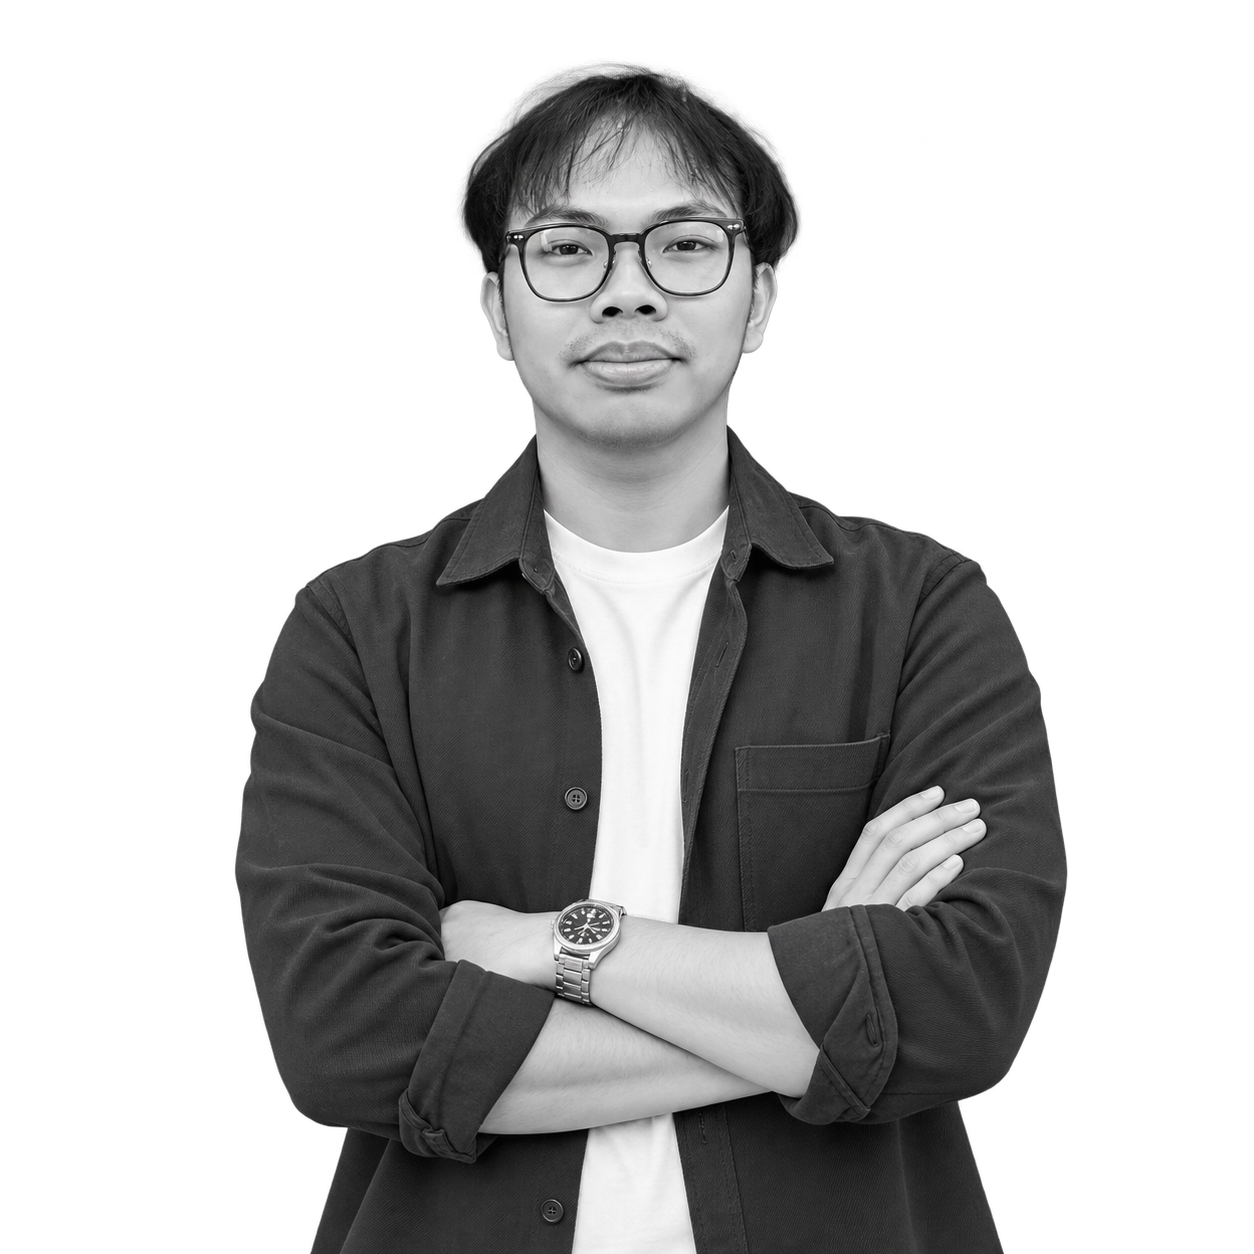
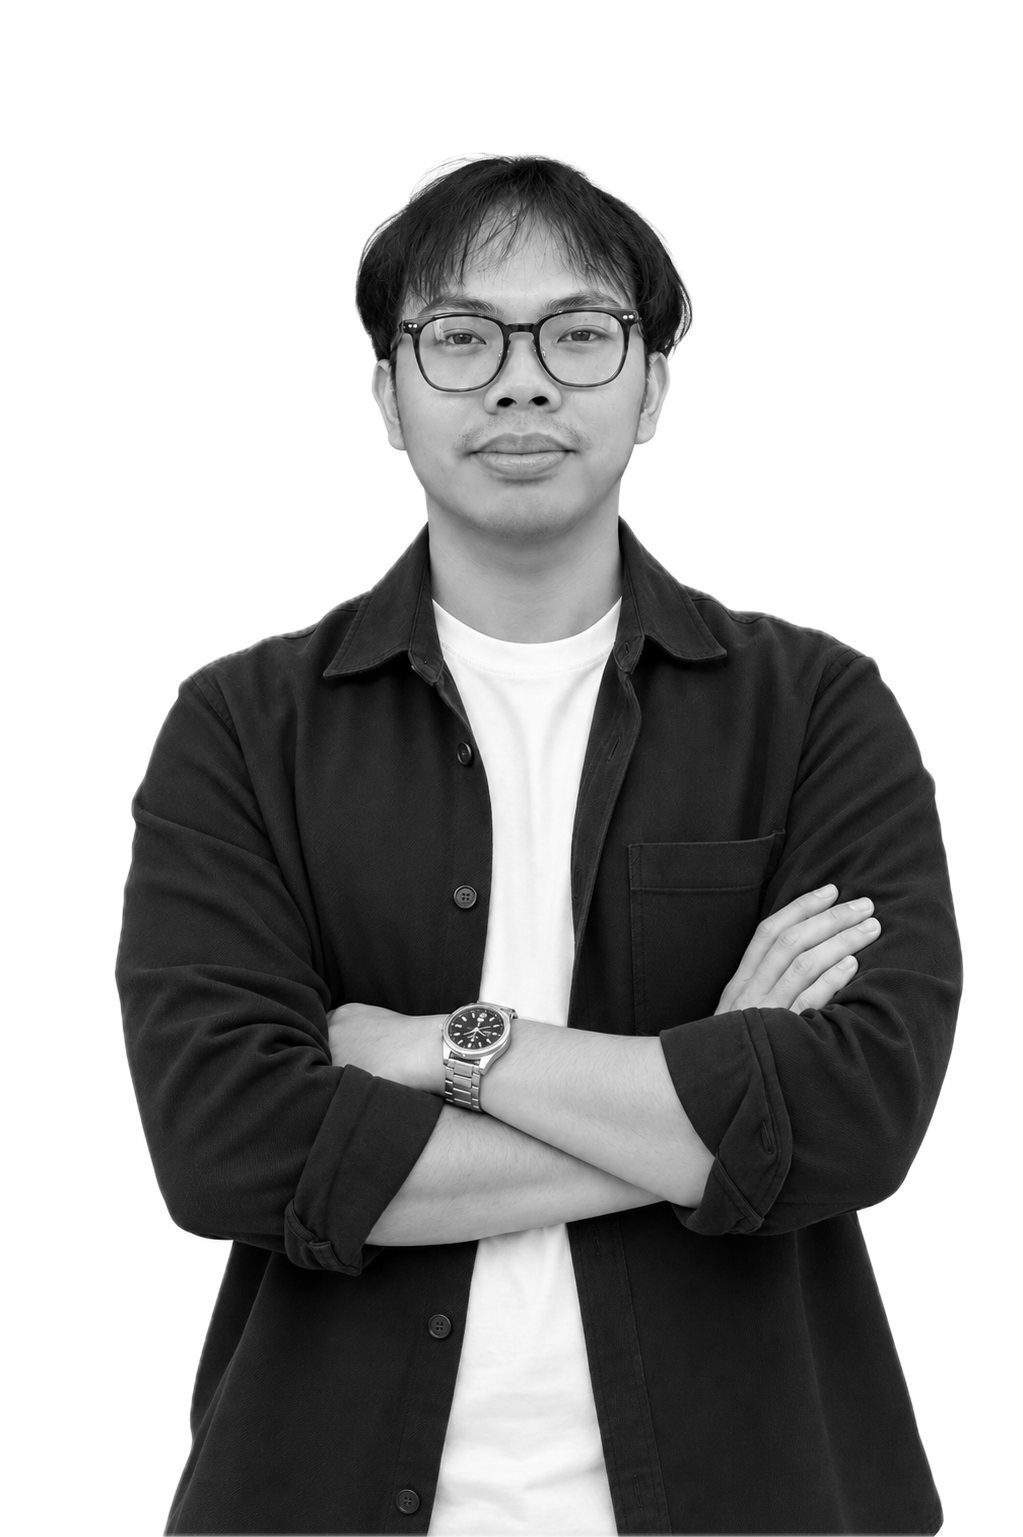
feat: baseline v1 — brand Cahaya Arkana, section Experience & Statement, thumbnail project, potret baru

diff --git a/components/Experience.tsx b/components/Experience.tsx
@@ -1,0 +1,75 @@
+import { site } from "@/data/site";
+
+const history = [
+  {
+    role: "Software Engineer / Full-Stack Developer",
+    org: "Freelance & Client Projects",
+    period: "2021 — Present",
+  },
+  {
+    role: "Web Developer (Laravel / React)",
+    org: "Enterprise POS & CMS Solutions",
+    period: "2020 — 2021",
+  },
+  {
+    role: "Frontend Developer",
+    org: "Digital Product Projects",
+    period: "2018 — 2020",
+  },
+];
+
+export default function Experience() {
+  return (
+    <section id="experience" className="py-16 sm:py-24 max-w-7xl mx-auto px-4 sm:px-6 lg:px-8">
+      <div className="grid grid-cols-1 md:grid-cols-12 gap-8 items-start">
+        <div className="md:col-span-5 space-y-4">
+          <span className="text-xs font-bold text-lime-600 uppercase tracking-widest">Background</span>
+          <h2 className="text-3xl sm:text-4xl font-bold text-neutral-900">
+            Building production software{" "}
+            <span className="font-editorial italic font-normal text-neutral-500">since 2018</span>
+          </h2>
+          <p className="text-xs sm:text-sm text-neutral-600 leading-relaxed pt-2">
+            Arya Ajisadda is a full-stack software engineer focused on robust web applications,
+            CMS platforms, and POS systems — from backend architecture to accessible, pixel-perfect
+            frontends.
+          </p>
+
+          <div className="pt-4 flex items-center gap-3 text-xs font-semibold text-neutral-700">
+            <a
+              href={site.github && `https://github.com/${site.github}`}
+              target="_blank"
+              rel="noopener noreferrer"
+              className={site.github ? "hover:text-lime-600 transition-colors" : "pointer-events-none text-neutral-400"}
+            >
+              GitHub ↗
+            </a>
+            <span className="text-neutral-300">•</span>
+            <a
+              href={site.linkedin && `https://linkedin.com/in/${site.linkedin}`}
+              target="_blank"
+              rel="noopener noreferrer"
+              className={site.linkedin ? "hover:text-lime-600 transition-colors" : "pointer-events-none text-neutral-400"}
+            >
+              LinkedIn ↗
+            </a>
+          </div>
+        </div>
+
+        <div className="md:col-span-7 bg-white p-6 sm:p-8 rounded-3xl border border-[#E5E7EB] space-y-6">
+          {history.map((h, i) => (
+            <div
+              key={h.role}
+              className={`flex items-center justify-between ${i < history.length - 1 ? "border-b border-[#E5E7EB] pb-4" : ""}`}
+            >
+              <div>
+                <h4 className="font-bold text-neutral-900 text-sm sm:text-base">{h.role}</h4>
+                <p className="text-xs text-neutral-500">{h.org}</p>
+              </div>
+              <span className="text-xs font-bold text-neutral-500 font-mono">{h.period}</span>
+            </div>
+          ))}
+        </div>
+      </div>
+    </section>
+  );
+}

diff --git a/data/projects.ts b/data/projects.ts
@@ -21,40 +21,44 @@ export const projects: Project[] = [
       "Point-of-sale offline-first untuk outlet: stok & transaksi jalan tanpa koneksi stabil, integrasi printer kasir & dapur, UI tablet-first untuk kasir cepat.",
     stack: ["React 19", "Vite", "Tailwind v4", "Capacitor", "Laravel 13", "SQLite"],
     highlight: "Offline-first POS + Android",
+    thumb: "/projects/mieayam.webp",
   },
   {
     id: "cms-dombi",
-    title: "Dombi Commerce Platform",
+    title: "Dombi",
     category: "cms",
     year: "2026",
     description:
-      "Platform commerce operational untuk distribusi produk segar harian: pesanan, pengiriman, kurir, dan manajemen pelanggan. Integrasi pembayaran DOKU (QRIS/Transfer/VA), Google OAuth, dan monitoring Sentry.",
-    stack: ["Laravel 13", "React 19", "Inertia", "DOKU", "Leaflet", "Sentry"],
-    highlight: "E-commerce + delivery + payment",
+      "Platform commerce operational untuk distribusi produk segar harian: pesanan, pengiriman, kurir, dan manajemen pelanggan. Integrasi pembayaran DOKU (QRIS/Transfer/VA), Google OAuth, monitoring Sentry, plus aplikasi mobile Android (Capacitor) untuk katalog & pesanan di perangkat.",
+    stack: ["Laravel 13", "React 19", "Inertia", "DOKU", "Capacitor", "Sentry"],
+    highlight: "E-commerce + delivery + payment + Android",
+    thumb: "/projects/dombi.webp",
   },
   {
-    id: "dombi-app",
-    title: "Dombi Mobile App",
-    category: "mobile",
-    year: "2026",
+    id: "cms-sidorejo",
+    title: "Sidorejo Makmur Sejahtera CMS",
+    category: "cms",
+    year: "2025",
     description:
-      "Aplikasi mobile Android (Capacitor) untuk platform commerce Dombi — akses katalog, pesanan, dan notifikasi langsung di perangkat.",
-    stack: ["Capacitor", "Android", "Laravel API"],
-    highlight: "Android app + Laravel API",
+      "Company profile & news site untuk PT Sidorejo Makmur Sejahtera: landing page (visi misi, partner, SPBU, karir), berita/artikel, dan contact form — semua konten dikelola lewat admin Filament.",
+    stack: ["Laravel 11", "Filament 3", "Tailwind", "Vite"],
+    highlight: "Company profile + berita + admin Filament",
+    thumb: "/projects/comprosms.webp",
   },
   {
     id: "presensi-sims",
-    title: "Presensi SIMS",
+    title: "Presensi SMS",
     category: "web",
     year: "2025",
     description:
       "Sistem presensi karyawan berbasis web dengan konfigurasi shift kerja, dashboard, dan PWA — Laravel 11 + Inertia React + MUI + AmCharts.",
     stack: ["Laravel 11", "Inertia React", "MUI", "AmCharts", "PWA"],
     highlight: "Presensi + shift kerja + PWA",
+    thumb: "/projects/presensi.webp",
   },
   {
     id: "graha-mesran",
-    title: "Graha Mesran POS",
+    title: "Graha Motor POS",
     category: "web",
     year: "2025",
     description:

diff --git a/components/Process.tsx b/components/Process.tsx
@@ -57,6 +57,51 @@ export default function Process() {
           </div>
         ))}
       </div>
+
+      {/* Testimonials */}
+      <div className="mt-20 pt-12 max-w-5xl mx-auto">
+        <div className="grid grid-cols-1 md:grid-cols-2 gap-10 md:gap-16 items-start md:divide-x md:divide-[#E5E7EB]/80">
+          <div className="pr-0 md:pr-8 space-y-6">
+            <div className="flex items-start justify-between">
+              <p className="text-xs sm:text-sm text-neutral-700 leading-relaxed font-normal">
+                Working with Arya was seamless from start to finish. He understood our goals quickly,
+                asked the right questions, and delivered a system that scaled cleanly with our growing
+                web app.
+              </p>
+              <span className="text-2xl font-serif text-neutral-900 shrink-0 ml-4">”</span>
+            </div>
+            <div className="flex items-center gap-3 pt-2">
+              <div className="w-10 h-10 rounded-full bg-lime flex items-center justify-center text-xs font-bold text-neutral-900">
+                DR
+              </div>
+              <div>
+                <div className="text-xs font-bold text-neutral-900">Daniel Reed</div>
+                <div className="text-[11px] text-neutral-500">Founder of NovaLabs</div>
+              </div>
+            </div>
+          </div>
+
+          <div className="pl-0 md:pl-12 space-y-6">
+            <div className="flex items-start justify-between">
+              <p className="text-xs sm:text-sm text-neutral-700 leading-relaxed font-normal">
+                Arya brought our product vision to life with incredible attention to detail. He
+                balanced business needs with solid engineering — our platform is not just beautiful,
+                but genuinely reliable.
+              </p>
+              <span className="text-2xl font-serif text-neutral-900 shrink-0 ml-4">”</span>
+            </div>
+            <div className="flex items-center gap-3 pt-2">
+              <div className="w-10 h-10 rounded-full bg-[#18181B] text-white flex items-center justify-center text-xs font-bold">
+                SN
+              </div>
+              <div>
+                <div className="text-xs font-bold text-neutral-900">Sarah Nguyen</div>
+                <div className="text-[11px] text-neutral-500">Product Manager at FlowSync</div>
+              </div>
+            </div>
+          </div>
+        </div>
+      </div>
     </section>
   );
 }

diff --git a/components/Footer.tsx b/components/Footer.tsx
@@ -8,28 +8,34 @@ export default function Footer() {
   ].filter((s) => s.url);
 
   return (
-    <footer className="bg-white border-t border-[#E5E7EB] py-12">
-      <div className="max-w-7xl mx-auto px-4 sm:px-6 lg:px-8 flex flex-col sm:flex-row items-center justify-between gap-6">
-        <div className="flex items-center gap-2">
-          <span className="font-editorial italic text-xl">Arya</span>
-          <span className="text-sm font-bold">Ajisadda</span>
-          <span className="text-xs text-neutral-400 ml-2">© 2026. All rights reserved.</span>
-        </div>
-        {socials.length > 0 && (
-          <div className="flex items-center gap-6 text-neutral-600 text-sm">
-            {socials.map((s) => (
-              <a
-                key={s.name}
-                href={s.url}
-                target="_blank"
-                rel="noopener noreferrer"
-                className="hover:text-black transition-colors flex items-center gap-1.5"
-              >
-                {s.icon} {s.name}
-              </a>
-            ))}
+    <footer className="pt-12 pb-8 border-t border-[#E5E7EB] overflow-hidden bg-white">
+      <div className="max-w-7xl mx-auto px-4 sm:px-6 lg:px-8">
+        <div className="flex flex-col sm:flex-row items-center justify-between gap-4 pb-12 text-xs text-neutral-500 font-medium">
+          <div>
+            © {new Date().getFullYear()} {site.brand}. All rights reserved.
           </div>
-        )}
+          {socials.length > 0 && (
+            <div className="flex items-center gap-6">
+              {socials.map((s) => (
+                <a
+                  key={s.name}
+                  href={s.url}
+                  target="_blank"
+                  rel="noopener noreferrer"
+                  className="hover:text-neutral-900 transition-colors flex items-center gap-1.5"
+                >
+                  {s.icon} {s.name}
+                </a>
+              ))}
+            </div>
+          )}
+        </div>
+
+        <div className="text-center select-none pt-4 pointer-events-none">
+          <span className="block text-[12vw] sm:text-[11vw] font-editorial italic text-neutral-100 leading-none tracking-tighter">
+            {site.brand}
+          </span>
+        </div>
       </div>
     </footer>
   );

diff --git a/components/Nav.tsx b/components/Nav.tsx
@@ -2,21 +2,28 @@
 
 import { useState } from "react";
 import { FaBars, FaXmark, FaArrowRight } from "react-icons/fa6";
+import { site } from "@/data/site";
 
 export default function Nav({ onOpenContact }: { onOpenContact: () => void }) {
   const [open, setOpen] = useState(false);
   const links = [
     { href: "#about", label: "About Me" },
     { href: "#process", label: "How I Work" },
+    { href: "#experience", label: "Experience" },
     { href: "#works", label: "Selected Works" },
   ];
 
   return (
     <header className="sticky top-0 z-40 backdrop-blur-md bg-[#FAF9F6]/80 border-b border-[#E5E7EB]/60">
       <div className="max-w-7xl mx-auto px-4 sm:px-6 lg:px-8 h-20 flex items-center justify-between">
-        <a href="#" className="flex items-center gap-2">
-          <span className="font-editorial italic text-2xl text-neutral-900">Arya</span>
-          <span className="text-xl font-bold tracking-tight text-neutral-900">Ajisadda</span>
+        <a href="#" className="flex items-center gap-2.5 group">
+          <div className="w-9 h-9 rounded-full bg-neutral-900 text-white flex items-center justify-center font-bold text-xs tracking-tighter group-hover:bg-lime group-hover:text-neutral-900 transition-colors">
+            CA
+          </div>
+          <span className="flex flex-col leading-none">
+            <span className="font-bold text-sm tracking-tight text-neutral-900">{site.brand}</span>
+            <span className="text-[10px] text-neutral-500 font-medium mt-0.5">{site.name}</span>
+          </span>
         </a>
 
         <nav className="hidden lg:flex items-center gap-8">

diff --git a/components/Statement.tsx b/components/Statement.tsx
@@ -1,0 +1,34 @@
+const pills = [
+  "⚡ System Architecture",
+  "🎯 Clean Code & Type Safety",
+  "🚀 CI/CD & Cloud",
+  "🎨 Pixel-Precise Frontend",
+];
+
+export default function Statement() {
+  return (
+    <section className="py-16 sm:py-24 bg-[#FAF9F6] border-y border-[#E5E7EB]">
+      <div className="max-w-4xl mx-auto px-4 sm:px-6 text-center">
+        <span className="text-xs font-bold text-neutral-400 uppercase tracking-widest">Philosophy</span>
+        <h2 className="text-2xl sm:text-4xl md:text-5xl font-medium tracking-tight text-neutral-900 leading-snug mt-4">
+          I build by blending{" "}
+          <span className="font-bold underline decoration-lime decoration-4">clear architecture</span>
+          , quality-first engineering, and user empathy to{" "}
+          <span className="font-editorial italic text-neutral-900">craft products</span> that solve real
+          problems.
+        </h2>
+
+        <div className="flex flex-wrap items-center justify-center gap-2.5 mt-8 sm:mt-10">
+          {pills.map((p) => (
+            <span
+              key={p}
+              className="px-4 py-2 rounded-full bg-white border border-[#E5E7EB] shadow-sm text-xs font-semibold text-neutral-700"
+            >
+              {p}
+            </span>
+          ))}
+        </div>
+      </div>
+    </section>
+  );
+}

diff --git a/app/layout.tsx b/app/layout.tsx
@@ -9,16 +9,16 @@ const playfair = Playfair_Display({
 });
 
 export const metadata: Metadata = {
-  title: "Arya Ajisadda — Software Engineer & Web Developer",
+  title: "Cahaya Arkana — Arya Ajisadda | Software Engineer",
   description:
-    "Software Engineer & Web Developer. Building robust web applications, CMS, POS systems, and mobile apps.",
+    "Cahaya Arkana. Software Engineer & Web Developer. Building robust web applications, CMS, POS systems, and mobile apps.",
   // ponytail: metadataBase pakai contoh domain Vercel. Ganti ke domain real
   // sebelum go-live (dipakai OG image URL absolut).
   metadataBase: new URL("https://aryajisadda.vercel.app"),
   openGraph: {
-    title: "Arya Ajisadda — Software Engineer & Web Developer",
+    title: "Cahaya Arkana — Arya Ajisadda | Software Engineer",
     description:
-      "Software Engineer & Web Developer. Building robust web applications, CMS, POS systems, and mobile apps.",
+      "Cahaya Arkana. Software Engineer & Web Developer. Building robust web applications, CMS, POS systems, and mobile apps.",
     type: "website",
     images: [{ url: "/portrait.png", alt: "Arya Ajisadda" }],
   },

diff --git a/components/Works.tsx b/components/Works.tsx
@@ -7,8 +7,8 @@ import { categories, projects, type Project } from "@/data/projects";
 const cols: Record<string, string> = {
   "mieayam-pos": "md:col-span-8",
   "cms-dombi": "md:col-span-4",
-  "dombi-app": "md:col-span-4",
-  "presensi-sims": "md:col-span-8",
+  "cms-sidorejo": "md:col-span-8",
+  "presensi-sims": "md:col-span-4",
   "graha-mesran": "md:col-span-4",
   "dipo-feed": "md:col-span-8",
 };
@@ -52,8 +52,8 @@ export default function Works({ onOpenProject }: { onOpenProject: (p: Project) =
           >
             <div>
               {p.thumb && (
-                <div className="mb-4 rounded-xl overflow-hidden border border-[#E5E7EB]">
-                  <img src={p.thumb} alt={`${p.title} preview`} className="w-full h-40 object-cover" />
+                <div className="mb-4 rounded-xl overflow-hidden border border-[#E5E7EB] bg-neutral-100 flex items-center justify-center h-52">
+                  <img src={p.thumb} alt={`${p.title} preview`} className="w-full h-full object-contain" />
                 </div>
               )}
               <div className="flex items-center justify-between mb-4">

diff --git a/app/page.tsx b/app/page.tsx
@@ -4,8 +4,10 @@ import { useState } from "react";
 import Nav from "@/components/Nav";
 import Hero from "@/components/Hero";
 import TechMarquee from "@/components/TechMarquee";
+import Statement from "@/components/Statement";
 import Process from "@/components/Process";
 import Works from "@/components/Works";
+import Experience from "@/components/Experience";
 import CTA from "@/components/CTA";
 import Footer from "@/components/Footer";
 import ContactModal from "@/components/ContactModal";
@@ -22,8 +24,10 @@ export default function Home() {
       <main>
         <Hero onOpenContact={() => setContactOpen(true)} />
         <TechMarquee />
+        <Statement />
         <Process />
         <Works onOpenProject={setActiveProject} />
+        <Experience />
         <CTA onOpenContact={() => setContactOpen(true)} />
       </main>
       <Footer />

diff --git a/data/site.ts b/data/site.ts
@@ -1,6 +1,7 @@
 // Single source of truth untuk kontak & sosial. Ganti di sini, berlaku semua.
 export const site = {
   name: 'Arya Ajisadda',
+  brand: 'Cahaya Arkana',
   email: 'aryaajisadda@gmail.com',
   // username tanpa https://. Kosong = link footer disembunyikan.
   github: 'leanderarya',
